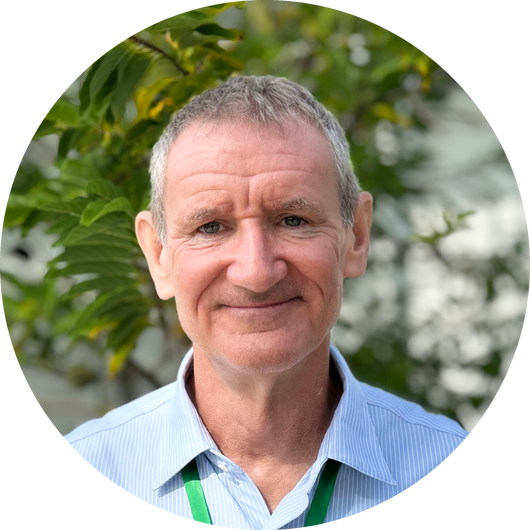
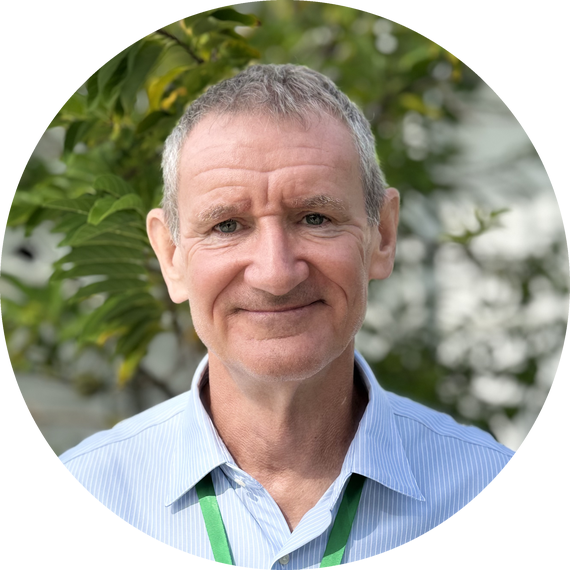
Zoom Mr Mark's team portrait out to match Mr Dara
Re-cropped from the original Mark.HEIC at the widest square the photo
allows, so his framing matches Dara's new portrait.

Claude-Session: https://claude.ai/code/session_01Dh3x9m41sU9pQRHN2oXQJY

diff --git a/our-school/our-team/index.html b/our-school/our-team/index.html
@@ -74,7 +74,7 @@
 </header>
 <main id="main-content">
 <section class="page-hero"><div class="wrap"><nav aria-label="Breadcrumb" class="eyebrow page-trail">Our School <span class="page-trail__sep" aria-hidden="true">›</span> <span aria-current="page">Our Team</span></nav><h1>Our Team</h1><p>Meet the teachers and support staff who make up the Greenacre community.</p></div></section>
-<section class="team-page-v2" id="team-roster"><div class="wrap"><div class="team-intro-v2"><h2>Our Dedicated Team</h2><p>Our team brings together qualified teachers, teaching assistants and support staff from a range of backgrounds.</p><p>All Greenacre teachers are appropriately qualified for their roles and work closely with students to provide engaging, well-pitched learning and support individual progress. Our teaching assistants provide valuable classroom and pastoral support across the school.</p><p>Together, our staff contribute to the welcoming, supportive and internationally minded community at Greenacre.</p></div><div class="staff-tools"><button type="button" hidden>Expand all</button></div><div class="staff-directory" id="staff-directory"><details class="staff-disclosure" id="leadership" open><summary><h3>Leadership</h3><span class="staff-chevron" aria-hidden="true"></span></summary><div class="staff-panel"><div class="team-grid-v2"><article class="team-person-v2"><div class="team-avatar-v2"><img src="../../assets/images/optimized/team-dara-v2.webp" alt="Mr Dara" loading="lazy" decoding="async"/></div><div class="team-copy-v2"><h4>Mr Dara</h4><p>Head of School</p></div></article><article class="team-person-v2"><div class="team-avatar-v2"><img src="../../assets/images/optimized/team-mark-colour-v3.webp" alt="Mr Mark" loading="lazy" decoding="async"/></div><div class="team-copy-v2"><h4>Mr Mark</h4><p>Head of Primary</p></div></article><article class="team-person-v2"><div class="team-avatar-v2"><img src="../../assets/images/optimized/team-tip.webp" alt="Ms Tippawan (Tip)" loading="lazy" decoding="async"/></div><div class="team-copy-v2"><h4>Ms Tippawan (Tip)</h4><p>Administration Manager</p></div></article></div></div></details><details class="staff-disclosure" id="early-years-primary"><summary><h3>Early Years &amp; Primary Teachers</h3><span class="staff-chevron" aria-hidden="true"></span></summary><div class="staff-panel"><div class="team-grid-v2"><article class="team-person-v2"><div class="team-avatar-v2"><img src="../../assets/images/optimized/team-vanessa.webp" alt="Ms Vanessa" loading="lazy" decoding="async"/></div><div class="team-copy-v2"><h4>Ms Vanessa</h4><p>Nursery (FS1) Teacher</p></div></article><article class="team-person-v2"><div class="team-avatar-v2"><img src="../../assets/images/optimized/team-chloe.webp" alt="Ms Chloe" loading="lazy" decoding="async"/></div><div class="team-copy-v2"><h4>Ms Chloe</h4><p>Reception (FS2) Teacher</p></div></article><article class="team-person-v2"><div class="team-avatar-v2"><img src="../../assets/images/optimized/team-amber.webp" alt="Ms Amber" loading="lazy" decoding="async"/></div><div class="team-copy-v2"><h4>Ms Amber</h4><p>Year 1 Class Teacher</p></div></article><article class="team-person-v2"><div class="team-avatar-v2"><img src="../../assets/images/optimized/team-amy.webp" alt="Ms Amy" loading="lazy" decoding="async"/></div><div class="team-copy-v2"><h4>Ms Amy</h4><p>Year 2 Class Teacher</p></div></article><article class="team-person-v2"><div class="team-avatar-v2"><img src="../../assets/images/optimized/team-james.webp" alt="Mr James" loading="lazy" decoding="async"/></div><div class="team-copy-v2"><h4>Mr James</h4><p>Year 3A Class Teacher</p></div></article><article class="team-person-v2"><div class="team-avatar-v2"><img src="../../assets/images/optimized/team-santana.webp" alt="Ms Santana" loading="lazy" decoding="async"/></div><div class="team-copy-v2"><h4>Ms Santana</h4><p>Year 3B Class Teacher</p></div></article><article class="team-person-v2"><div class="team-avatar-v2"><img src="../../assets/images/optimized/team-jordan.webp" alt="Mr Jordan" loading="lazy" decoding="async"/></div><div class="team-copy-v2"><h4>Mr Jordan</h4><p>Year 4 Class Teacher</p></div></article><article class="team-person-v2"><div class="team-avatar-v2"><img src="../../assets/images/optimized/team-ethan.webp" alt="Mr Ethan" loading="lazy" decoding="async"/></div><div class="team-copy-v2"><h4>Mr Ethan</h4><p>Year 5 Class Teacher</p></div></article><article class="team-person-v2"><div class="team-avatar-v2"><img src="../../assets/images/optimized/team-caleb-colour-v1.webp" alt="Mr Caleb" loading="lazy" decoding="async"/></div><div class="team-copy-v2"><h4>Mr Caleb</h4><p>Year 6 Class Teacher</p></div></article></div></div></details><details class="staff-disclosure" id="secondary-teachers"><summary><h3>Secondary Teachers</h3><span class="staff-chevron" aria-hidden="true"></span></summary><div class="staff-panel"><div class="team-grid-v2"><article class="team-person-v2"><div class="team-avatar-v2"><img src="../../assets/images/optimized/team-pixie.webp" alt="Ms Pixie" loading="lazy" decoding="async"/></div><div class="team-copy-v2"><h4>Ms Pixie</h4><p>KS3 English Teacher and SENCO</p></div></article><article class="team-person-v2"><div class="team-avatar-v2"><img src="../../assets/images/optimized/team-rachel.webp" alt="Ms Rachel" loading="lazy" decoding="async"/></div><div class="team-copy-v2"><h4>Ms Rachel</h4><p>KS4 English Teacher</p></div></article><article class="team-person-v2"><div class="team-avatar-v2"><img src="../../assets/images/optimized/team-hannah.webp" alt="Ms Hannah" loading="lazy" decoding="async"/></div><div class="team-copy-v2"><h4>Ms Hannah</h4><p>Secondary Humanities Teacher</p></div></article><article class="team-person-v2"><div class="team-avatar-v2"><img src="../../assets/images/optimized/team-ellis.webp" alt="Ms Ellis" loading="lazy" decoding="async"/></div><div class="team-copy-v2"><h4>Ms Ellis</h4><p>Secondary Science Teacher</p></div></article><article class="team-person-v2"><div class="team-avatar-v2"><img src="../../assets/images/optimized/team-owen.webp" alt="Mr Owen" loading="lazy" decoding="async"/></div><div class="team-copy-v2"><h4>Mr Owen</h4><p>Secondary Maths Teacher</p></div></article></div></div></details><details class="staff-disclosure" id="whole-school-teachers"><summary><h3>Whole-School Teachers</h3><span class="staff-chevron" aria-hidden="true"></span></summary><div class="staff-panel"><div class="team-grid-v2"><article class="team-person-v2"><div class="team-avatar-v2"><img src="../../assets/images/optimized/team-kevin.webp" alt="Mr Kevin" loading="lazy" decoding="async"/></div><div class="team-copy-v2"><h4>Mr Kevin</h4><p>Sports &amp; Swimming Teacher</p></div></article><article class="team-person-v2"><div class="team-avatar-v2"><img src="../../assets/images/optimized/team-tatiana-colour-v1.webp" alt="Ms Tatiana" loading="lazy" decoding="async"/></div><div class="team-copy-v2"><h4>Ms Tatiana</h4><p>Art &amp; Graphic Design Teacher</p></div></article><article class="team-person-v2"><div class="team-avatar-v2"><img src="../../assets/images/optimized/team-richard.webp" alt="Mr Richard" loading="lazy" decoding="async"/></div><div class="team-copy-v2"><h4>Mr Richard</h4><p>Environmental Teacher</p></div></article><article class="team-person-v2"><div class="team-avatar-v2"><img src="../../assets/images/optimized/team-nadia.webp" alt="Ms Nadia" loading="lazy" decoding="async"/></div><div class="team-copy-v2"><h4>Ms Nadia</h4><p>EAL Teacher</p></div></article><article class="team-person-v2"><div class="team-avatar-v2"><img src="../../assets/images/optimized/team-eh-nyaw.webp" alt="Ms Eh Nyaw" loading="lazy" decoding="async"/></div><div class="team-copy-v2"><h4>Ms Eh Nyaw</h4><p>Music Teacher</p></div></article></div></div></details><details class="staff-disclosure" id="thai-language-teachers"><summary><h3>Thai Language Teachers</h3><span class="staff-chevron" aria-hidden="true"></span></summary><div class="staff-panel"><div class="team-grid-v2"><article class="team-person-v2"><div class="team-avatar-v2"><img src="../../assets/images/optimized/team-piaew.webp" alt="Ms Piaew" loading="lazy" decoding="async"/></div><div class="team-copy-v2"><h4>Ms Piaew</h4></div></article><article class="team-person-v2"><div class="team-avatar-v2"><img src="../../assets/images/optimized/team-milk.webp" alt="Ms Milk" loading="lazy" decoding="async"/></div><div class="team-copy-v2"><h4>Ms Milk</h4></div></article></div></div></details><details class="staff-disclosure" id="teaching-assistants"><summary><h3>Teaching Assistants</h3><span class="staff-chevron" aria-hidden="true"></span></summary><div class="staff-panel"><div class="team-grid-v2"><article class="team-person-v2"><div class="team-avatar-v2"><img src="../../assets/images/optimized/team-ann.webp" alt="Ms Ann" loading="lazy" decoding="async"/></div><div class="team-copy-v2"><h4>Ms Ann</h4></div></article><article class="team-person-v2"><div class="team-avatar-v2"><img src="../../assets/images/optimized/team-vicky.webp" alt="Ms Vicky" loading="lazy" decoding="async"/></div><div class="team-copy-v2"><h4>Ms Vicky</h4></div></article><article class="team-person-v2"><div class="team-avatar-v2"><img src="../../assets/images/optimized/team-cherry-colour-v1.webp" alt="Ms Cherry" loading="lazy" decoding="async"/></div><div class="team-copy-v2"><h4>Ms Cherry</h4></div></article><article class="team-person-v2"><div class="team-avatar-v2"><img src="../../assets/images/optimized/team-jen.webp" alt="Ms Jen" loading="lazy" decoding="async"/></div><div class="team-copy-v2"><h4>Ms Jen</h4></div></article><article class="team-person-v2"><div class="team-avatar-v2"><img src="../../assets/images/optimized/team-pat.webp" alt="Ms Pat" loading="lazy" decoding="async"/></div><div class="team-copy-v2"><h4>Ms Pat</h4></div></article><article class="team-person-v2"><div class="team-avatar-v2"><img src="../../assets/images/optimized/team-fon-ta.webp" alt="Ms Fon" loading="lazy" decoding="async"/></div><div class="team-copy-v2"><h4>Ms Fon</h4></div></article><article class="team-person-v2"><div class="team-avatar-v2"><img src="../../assets/images/optimized/team-aom.webp" alt="Ms Aom" loading="lazy" decoding="async"/></div><div class="team-copy-v2"><h4>Ms Aom</h4></div></article><article class="team-person-v2"><div class="team-avatar-v2"><img src="../../assets/images/optimized/team-milky.webp" alt="Ms Milky" loading="lazy" decoding="async"/></div><div class="team-copy-v2"><h4>Ms Milky</h4></div></article></div></div></details><details class="staff-disclosure" id="administration-support"><summary><h3>Administration &amp; Support</h3><span class="staff-chevron" aria-hidden="true"></span></summary><div class="staff-panel"><div class="team-grid-v2"><article class="team-person-v2"><div class="team-avatar-v2"><img src="../../assets/images/optimized/team-lorie.webp" alt="Ms Lorie" loading="lazy" decoding="async"/></div><div class="team-copy-v2"><h4>Ms Lorie</h4><p>Nurse &amp; Science Technician</p></div></article><article class="team-person-v2"><div class="team-avatar-v2"><img src="../../assets/images/optimized/team-jeab.webp" alt="Ms Jeab" loading="lazy" decoding="async"/></div><div class="team-copy-v2"><h4>Ms Jeab</h4><p>Admin and Receptionist Officer</p></div></article><article class="team-person-v2"><div class="team-avatar-v2"><img src="../../assets/images/optimized/team-shirley.webp" alt="Ms Shirley" loading="lazy" decoding="async"/></div><div class="team-copy-v2"><h4>Ms Shirley</h4><p>School Admission Officer</p></div></article><article class="team-person-v2"><div class="team-avatar-v2"><img src="../../assets/images/optimized/team-tiew-colour-v1.webp" alt="Ms Tiew" loading="lazy" decoding="async"/></div><div class="team-copy-v2"><h4>Ms Tiew</h4><p>Visa Officer</p></div></article><article class="team-person-v2"><div class="team-avatar-v2"><img src="../../assets/images/optimized/team-sunny.webp" alt="Ms Sunny" loading="lazy" decoding="async"/></div><div class="team-copy-v2"><h4>Ms Sunny</h4><p>Finance Officer</p></div></article><article class="team-person-v2"><div class="team-avatar-v2"><img src="../../assets/images/optimized/team-honey.webp" alt="Ms Honey" loading="lazy" decoding="async"/></div><div class="team-copy-v2"><h4>Ms Honey</h4><p>Finance Officer</p></div></article><article class="team-person-v2"><div class="team-avatar-v2"><img src="../../assets/images/optimized/team-krung-colour-v1.webp" alt="Mr Watchara (Krung)" loading="lazy" decoding="async"/></div><div class="team-copy-v2"><h4>Mr Watchara (Krung)</h4><p>Facilities Manager</p></div></article></div></div></details></div></div></section></main>
+<section class="team-page-v2" id="team-roster"><div class="wrap"><div class="team-intro-v2"><h2>Our Dedicated Team</h2><p>Our team brings together qualified teachers, teaching assistants and support staff from a range of backgrounds.</p><p>All Greenacre teachers are appropriately qualified for their roles and work closely with students to provide engaging, well-pitched learning and support individual progress. Our teaching assistants provide valuable classroom and pastoral support across the school.</p><p>Together, our staff contribute to the welcoming, supportive and internationally minded community at Greenacre.</p></div><div class="staff-tools"><button type="button" hidden>Expand all</button></div><div class="staff-directory" id="staff-directory"><details class="staff-disclosure" id="leadership" open><summary><h3>Leadership</h3><span class="staff-chevron" aria-hidden="true"></span></summary><div class="staff-panel"><div class="team-grid-v2"><article class="team-person-v2"><div class="team-avatar-v2"><img src="../../assets/images/optimized/team-dara-v2.webp" alt="Mr Dara" loading="lazy" decoding="async"/></div><div class="team-copy-v2"><h4>Mr Dara</h4><p>Head of School</p></div></article><article class="team-person-v2"><div class="team-avatar-v2"><img src="../../assets/images/optimized/team-mark-colour-v4.webp" alt="Mr Mark" loading="lazy" decoding="async"/></div><div class="team-copy-v2"><h4>Mr Mark</h4><p>Head of Primary</p></div></article><article class="team-person-v2"><div class="team-avatar-v2"><img src="../../assets/images/optimized/team-tip.webp" alt="Ms Tippawan (Tip)" loading="lazy" decoding="async"/></div><div class="team-copy-v2"><h4>Ms Tippawan (Tip)</h4><p>Administration Manager</p></div></article></div></div></details><details class="staff-disclosure" id="early-years-primary"><summary><h3>Early Years &amp; Primary Teachers</h3><span class="staff-chevron" aria-hidden="true"></span></summary><div class="staff-panel"><div class="team-grid-v2"><article class="team-person-v2"><div class="team-avatar-v2"><img src="../../assets/images/optimized/team-vanessa.webp" alt="Ms Vanessa" loading="lazy" decoding="async"/></div><div class="team-copy-v2"><h4>Ms Vanessa</h4><p>Nursery (FS1) Teacher</p></div></article><article class="team-person-v2"><div class="team-avatar-v2"><img src="../../assets/images/optimized/team-chloe.webp" alt="Ms Chloe" loading="lazy" decoding="async"/></div><div class="team-copy-v2"><h4>Ms Chloe</h4><p>Reception (FS2) Teacher</p></div></article><article class="team-person-v2"><div class="team-avatar-v2"><img src="../../assets/images/optimized/team-amber.webp" alt="Ms Amber" loading="lazy" decoding="async"/></div><div class="team-copy-v2"><h4>Ms Amber</h4><p>Year 1 Class Teacher</p></div></article><article class="team-person-v2"><div class="team-avatar-v2"><img src="../../assets/images/optimized/team-amy.webp" alt="Ms Amy" loading="lazy" decoding="async"/></div><div class="team-copy-v2"><h4>Ms Amy</h4><p>Year 2 Class Teacher</p></div></article><article class="team-person-v2"><div class="team-avatar-v2"><img src="../../assets/images/optimized/team-james.webp" alt="Mr James" loading="lazy" decoding="async"/></div><div class="team-copy-v2"><h4>Mr James</h4><p>Year 3A Class Teacher</p></div></article><article class="team-person-v2"><div class="team-avatar-v2"><img src="../../assets/images/optimized/team-santana.webp" alt="Ms Santana" loading="lazy" decoding="async"/></div><div class="team-copy-v2"><h4>Ms Santana</h4><p>Year 3B Class Teacher</p></div></article><article class="team-person-v2"><div class="team-avatar-v2"><img src="../../assets/images/optimized/team-jordan.webp" alt="Mr Jordan" loading="lazy" decoding="async"/></div><div class="team-copy-v2"><h4>Mr Jordan</h4><p>Year 4 Class Teacher</p></div></article><article class="team-person-v2"><div class="team-avatar-v2"><img src="../../assets/images/optimized/team-ethan.webp" alt="Mr Ethan" loading="lazy" decoding="async"/></div><div class="team-copy-v2"><h4>Mr Ethan</h4><p>Year 5 Class Teacher</p></div></article><article class="team-person-v2"><div class="team-avatar-v2"><img src="../../assets/images/optimized/team-caleb-colour-v1.webp" alt="Mr Caleb" loading="lazy" decoding="async"/></div><div class="team-copy-v2"><h4>Mr Caleb</h4><p>Year 6 Class Teacher</p></div></article></div></div></details><details class="staff-disclosure" id="secondary-teachers"><summary><h3>Secondary Teachers</h3><span class="staff-chevron" aria-hidden="true"></span></summary><div class="staff-panel"><div class="team-grid-v2"><article class="team-person-v2"><div class="team-avatar-v2"><img src="../../assets/images/optimized/team-pixie.webp" alt="Ms Pixie" loading="lazy" decoding="async"/></div><div class="team-copy-v2"><h4>Ms Pixie</h4><p>KS3 English Teacher and SENCO</p></div></article><article class="team-person-v2"><div class="team-avatar-v2"><img src="../../assets/images/optimized/team-rachel.webp" alt="Ms Rachel" loading="lazy" decoding="async"/></div><div class="team-copy-v2"><h4>Ms Rachel</h4><p>KS4 English Teacher</p></div></article><article class="team-person-v2"><div class="team-avatar-v2"><img src="../../assets/images/optimized/team-hannah.webp" alt="Ms Hannah" loading="lazy" decoding="async"/></div><div class="team-copy-v2"><h4>Ms Hannah</h4><p>Secondary Humanities Teacher</p></div></article><article class="team-person-v2"><div class="team-avatar-v2"><img src="../../assets/images/optimized/team-ellis.webp" alt="Ms Ellis" loading="lazy" decoding="async"/></div><div class="team-copy-v2"><h4>Ms Ellis</h4><p>Secondary Science Teacher</p></div></article><article class="team-person-v2"><div class="team-avatar-v2"><img src="../../assets/images/optimized/team-owen.webp" alt="Mr Owen" loading="lazy" decoding="async"/></div><div class="team-copy-v2"><h4>Mr Owen</h4><p>Secondary Maths Teacher</p></div></article></div></div></details><details class="staff-disclosure" id="whole-school-teachers"><summary><h3>Whole-School Teachers</h3><span class="staff-chevron" aria-hidden="true"></span></summary><div class="staff-panel"><div class="team-grid-v2"><article class="team-person-v2"><div class="team-avatar-v2"><img src="../../assets/images/optimized/team-kevin.webp" alt="Mr Kevin" loading="lazy" decoding="async"/></div><div class="team-copy-v2"><h4>Mr Kevin</h4><p>Sports &amp; Swimming Teacher</p></div></article><article class="team-person-v2"><div class="team-avatar-v2"><img src="../../assets/images/optimized/team-tatiana-colour-v1.webp" alt="Ms Tatiana" loading="lazy" decoding="async"/></div><div class="team-copy-v2"><h4>Ms Tatiana</h4><p>Art &amp; Graphic Design Teacher</p></div></article><article class="team-person-v2"><div class="team-avatar-v2"><img src="../../assets/images/optimized/team-richard.webp" alt="Mr Richard" loading="lazy" decoding="async"/></div><div class="team-copy-v2"><h4>Mr Richard</h4><p>Environmental Teacher</p></div></article><article class="team-person-v2"><div class="team-avatar-v2"><img src="../../assets/images/optimized/team-nadia.webp" alt="Ms Nadia" loading="lazy" decoding="async"/></div><div class="team-copy-v2"><h4>Ms Nadia</h4><p>EAL Teacher</p></div></article><article class="team-person-v2"><div class="team-avatar-v2"><img src="../../assets/images/optimized/team-eh-nyaw.webp" alt="Ms Eh Nyaw" loading="lazy" decoding="async"/></div><div class="team-copy-v2"><h4>Ms Eh Nyaw</h4><p>Music Teacher</p></div></article></div></div></details><details class="staff-disclosure" id="thai-language-teachers"><summary><h3>Thai Language Teachers</h3><span class="staff-chevron" aria-hidden="true"></span></summary><div class="staff-panel"><div class="team-grid-v2"><article class="team-person-v2"><div class="team-avatar-v2"><img src="../../assets/images/optimized/team-piaew.webp" alt="Ms Piaew" loading="lazy" decoding="async"/></div><div class="team-copy-v2"><h4>Ms Piaew</h4></div></article><article class="team-person-v2"><div class="team-avatar-v2"><img src="../../assets/images/optimized/team-milk.webp" alt="Ms Milk" loading="lazy" decoding="async"/></div><div class="team-copy-v2"><h4>Ms Milk</h4></div></article></div></div></details><details class="staff-disclosure" id="teaching-assistants"><summary><h3>Teaching Assistants</h3><span class="staff-chevron" aria-hidden="true"></span></summary><div class="staff-panel"><div class="team-grid-v2"><article class="team-person-v2"><div class="team-avatar-v2"><img src="../../assets/images/optimized/team-ann.webp" alt="Ms Ann" loading="lazy" decoding="async"/></div><div class="team-copy-v2"><h4>Ms Ann</h4></div></article><article class="team-person-v2"><div class="team-avatar-v2"><img src="../../assets/images/optimized/team-vicky.webp" alt="Ms Vicky" loading="lazy" decoding="async"/></div><div class="team-copy-v2"><h4>Ms Vicky</h4></div></article><article class="team-person-v2"><div class="team-avatar-v2"><img src="../../assets/images/optimized/team-cherry-colour-v1.webp" alt="Ms Cherry" loading="lazy" decoding="async"/></div><div class="team-copy-v2"><h4>Ms Cherry</h4></div></article><article class="team-person-v2"><div class="team-avatar-v2"><img src="../../assets/images/optimized/team-jen.webp" alt="Ms Jen" loading="lazy" decoding="async"/></div><div class="team-copy-v2"><h4>Ms Jen</h4></div></article><article class="team-person-v2"><div class="team-avatar-v2"><img src="../../assets/images/optimized/team-pat.webp" alt="Ms Pat" loading="lazy" decoding="async"/></div><div class="team-copy-v2"><h4>Ms Pat</h4></div></article><article class="team-person-v2"><div class="team-avatar-v2"><img src="../../assets/images/optimized/team-fon-ta.webp" alt="Ms Fon" loading="lazy" decoding="async"/></div><div class="team-copy-v2"><h4>Ms Fon</h4></div></article><article class="team-person-v2"><div class="team-avatar-v2"><img src="../../assets/images/optimized/team-aom.webp" alt="Ms Aom" loading="lazy" decoding="async"/></div><div class="team-copy-v2"><h4>Ms Aom</h4></div></article><article class="team-person-v2"><div class="team-avatar-v2"><img src="../../assets/images/optimized/team-milky.webp" alt="Ms Milky" loading="lazy" decoding="async"/></div><div class="team-copy-v2"><h4>Ms Milky</h4></div></article></div></div></details><details class="staff-disclosure" id="administration-support"><summary><h3>Administration &amp; Support</h3><span class="staff-chevron" aria-hidden="true"></span></summary><div class="staff-panel"><div class="team-grid-v2"><article class="team-person-v2"><div class="team-avatar-v2"><img src="../../assets/images/optimized/team-lorie.webp" alt="Ms Lorie" loading="lazy" decoding="async"/></div><div class="team-copy-v2"><h4>Ms Lorie</h4><p>Nurse &amp; Science Technician</p></div></article><article class="team-person-v2"><div class="team-avatar-v2"><img src="../../assets/images/optimized/team-jeab.webp" alt="Ms Jeab" loading="lazy" decoding="async"/></div><div class="team-copy-v2"><h4>Ms Jeab</h4><p>Admin and Receptionist Officer</p></div></article><article class="team-person-v2"><div class="team-avatar-v2"><img src="../../assets/images/optimized/team-shirley.webp" alt="Ms Shirley" loading="lazy" decoding="async"/></div><div class="team-copy-v2"><h4>Ms Shirley</h4><p>School Admission Officer</p></div></article><article class="team-person-v2"><div class="team-avatar-v2"><img src="../../assets/images/optimized/team-tiew-colour-v1.webp" alt="Ms Tiew" loading="lazy" decoding="async"/></div><div class="team-copy-v2"><h4>Ms Tiew</h4><p>Visa Officer</p></div></article><article class="team-person-v2"><div class="team-avatar-v2"><img src="../../assets/images/optimized/team-sunny.webp" alt="Ms Sunny" loading="lazy" decoding="async"/></div><div class="team-copy-v2"><h4>Ms Sunny</h4><p>Finance Officer</p></div></article><article class="team-person-v2"><div class="team-avatar-v2"><img src="../../assets/images/optimized/team-honey.webp" alt="Ms Honey" loading="lazy" decoding="async"/></div><div class="team-copy-v2"><h4>Ms Honey</h4><p>Finance Officer</p></div></article><article class="team-person-v2"><div class="team-avatar-v2"><img src="../../assets/images/optimized/team-krung-colour-v1.webp" alt="Mr Watchara (Krung)" loading="lazy" decoding="async"/></div><div class="team-copy-v2"><h4>Mr Watchara (Krung)</h4><p>Facilities Manager</p></div></article></div></div></details></div></div></section></main>
 
 
 <script src="../../assets/site-routing-mobile-nav.js"></script>

diff --git a/PHOTO-SOURCES.md b/PHOTO-SOURCES.md
@@ -54,7 +54,7 @@ This register reflects the latest user-selected photos for Campus, Secondary, Pr
 ## Staff roster portraits
 
 - `our-school/our-team/` / Mr Dara: new HEIC portrait supplied 11 October 2026; sRGB, cropped closer to a head-and-shoulders circle to match the roster, 570 × 570 circular transparent PNG master in `assets/images/team/dara.png`, served as `assets/images/optimized/team-dara-v2.webp`. The Head of School welcome page photo is unchanged.
-- `our-school/our-team/` / Mr Mark: `Mark.HEIC`; sRGB, square 530 × 530 circular transparent PNG master in `assets/images/team/mark.png` (the green ring baked into the earlier export was removed so only the page's own frame shows), served as `assets/images/optimized/team-mark-colour-v3.webp` with a slightly closer head-and-shoulders crop to match the other portraits.
+- `our-school/our-team/` / Mr Mark: original `Mark.HEIC` (re-supplied 11 October 2026); sRGB, full-width square crop framed to match Mr Dara, 570 × 570 circular transparent PNG master in `assets/images/team/mark.png`, served as `assets/images/optimized/team-mark-colour-v4.webp`.
 
 ## Earlier photo-selection history
 
